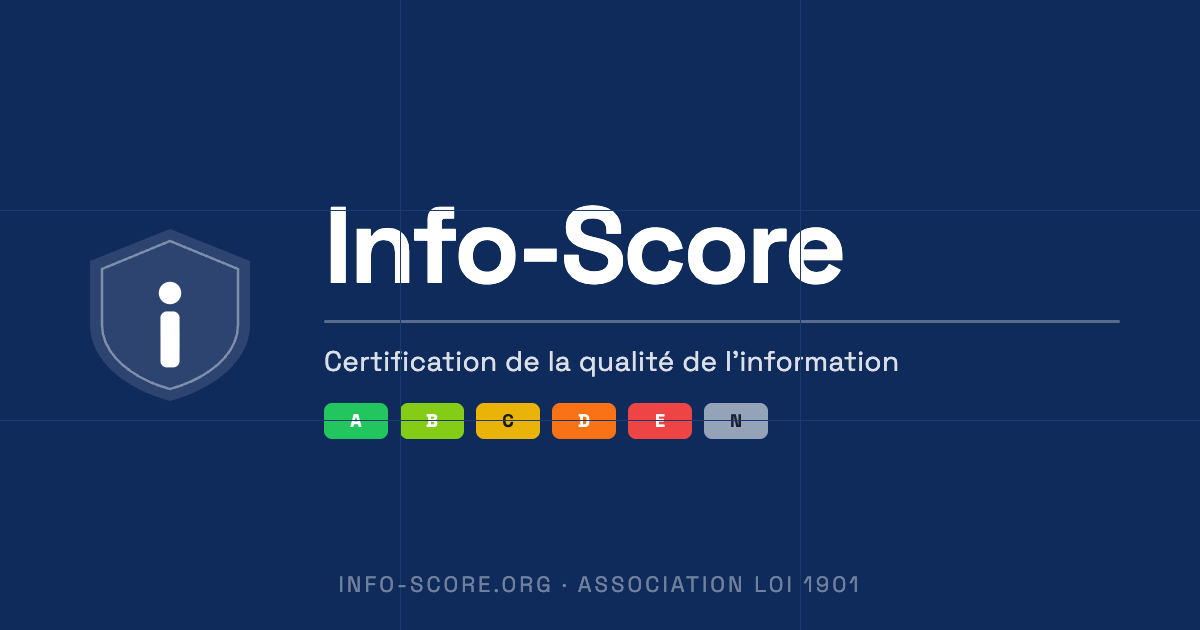
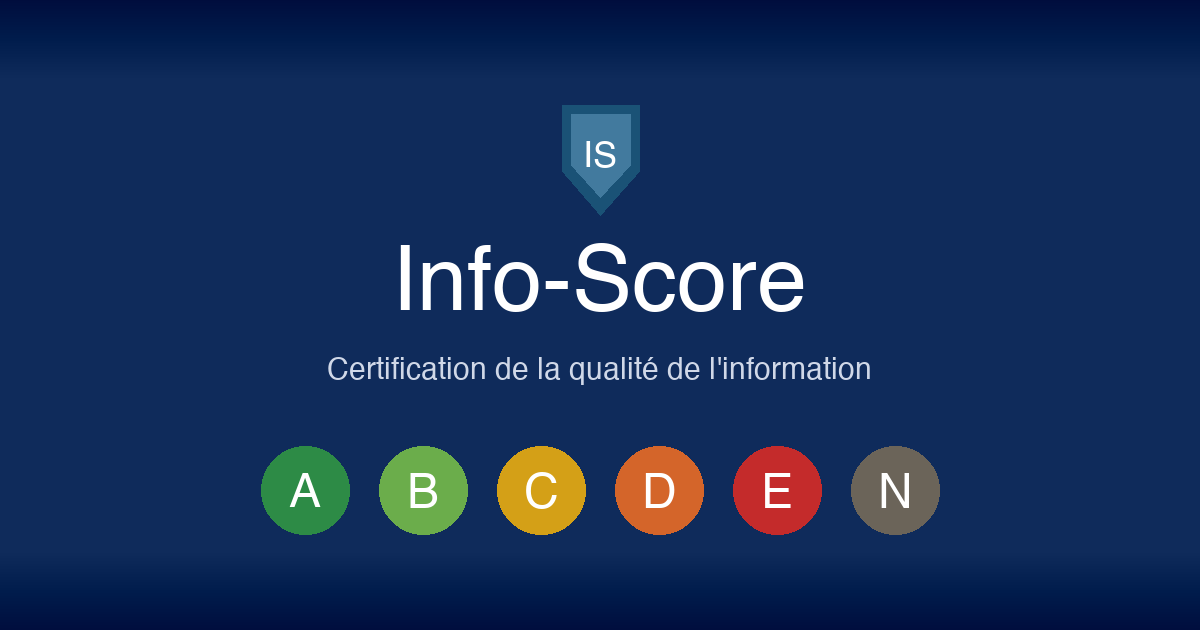
chore: générer og-image.png Pillow 1200x630 + corriger meta og
- Remplace og-image.svg par une image PNG 1200x630 générée avec Pillow
- Fond navy #0f2b5b, bouclier IS centré, titre "Info-Score" 90px
- 6 badges grades A/B/C/D/E/N avec couleurs officielles
- Met à jour les meta og:image dans les 5 pages HTML (.svg → .png)

diff --git a/referentiel.html b/referentiel.html
@@ -12,9 +12,6 @@
   <meta property="og:description" content="Spécification complète du cadre RUB Info-Score : 3 dimensions, 12 critères pondérés, formule de calcul, 6 grades. Open source et auditable.">
   <meta property="og:url" content="https://info-score.org/referentiel.html">
   <meta property="og:image" content="https://info-score.org/og-image.png">
-  <meta property="og:image:width" content="1200">
-  <meta property="og:image:height" content="630">
-  <meta property="og:image:type" content="image/png">
   <meta name="twitter:card" content="summary_large_image">
   <link rel="preconnect" href="https://fonts.googleapis.com">
   <link rel="preconnect" href="https://fonts.gstatic.com" crossorigin>

diff --git a/index.html b/index.html
@@ -12,9 +12,6 @@
   <meta property="og:description" content="Info-Score est un organisme de certification indépendant de la qualité informationnelle. Cadre RUB, 12 critères, 6 grades. Association loi 1901.">
   <meta property="og:url" content="https://info-score.org/">
   <meta property="og:image" content="https://info-score.org/og-image.png">
-  <meta property="og:image:width" content="1200">
-  <meta property="og:image:height" content="630">
-  <meta property="og:image:type" content="image/png">
   <meta name="twitter:card" content="summary_large_image">
   <link rel="preconnect" href="https://fonts.googleapis.com">
   <link rel="preconnect" href="https://fonts.gstatic.com" crossorigin>

diff --git a/tarifs.html b/tarifs.html
@@ -12,9 +12,6 @@
   <meta property="og:description" content="Tarifs Info-Score : Découverte à 1 €/certif, Certification Premium 5–10 €, Offre Pro sur devis. Association à but non lucratif.">
   <meta property="og:url" content="https://info-score.org/tarifs.html">
   <meta property="og:image" content="https://info-score.org/og-image.png">
-  <meta property="og:image:width" content="1200">
-  <meta property="og:image:height" content="630">
-  <meta property="og:image:type" content="image/png">
   <meta name="twitter:card" content="summary_large_image">
   <link rel="preconnect" href="https://fonts.googleapis.com">
   <link rel="preconnect" href="https://fonts.gstatic.com" crossorigin>

diff --git a/statistiques.html b/statistiques.html
@@ -12,9 +12,6 @@
   <meta property="og:description" content="Statistiques en temps réel des évaluations Info-Score : répartition des grades, scores par dimension, tendances mensuelles.">
   <meta property="og:url" content="https://info-score.org/statistiques.html">
   <meta property="og:image" content="https://info-score.org/og-image.png">
-  <meta property="og:image:width" content="1200">
-  <meta property="og:image:height" content="630">
-  <meta property="og:image:type" content="image/png">
   <meta name="twitter:card" content="summary_large_image">
   <link rel="preconnect" href="https://fonts.googleapis.com">
   <link rel="preconnect" href="https://fonts.gstatic.com" crossorigin>

diff --git a/api.html b/api.html
@@ -12,9 +12,6 @@
   <meta property="og:description" content="Documentation de l'API REST Info-Score : évaluer un contenu, récupérer un score, obtenir un certificat. Exemples Python, JS, cURL.">
   <meta property="og:url" content="https://info-score.org/api.html">
   <meta property="og:image" content="https://info-score.org/og-image.png">
-  <meta property="og:image:width" content="1200">
-  <meta property="og:image:height" content="630">
-  <meta property="og:image:type" content="image/png">
   <meta name="twitter:card" content="summary_large_image">
   <link rel="preconnect" href="https://fonts.googleapis.com">
   <link rel="preconnect" href="https://fonts.gstatic.com" crossorigin>
